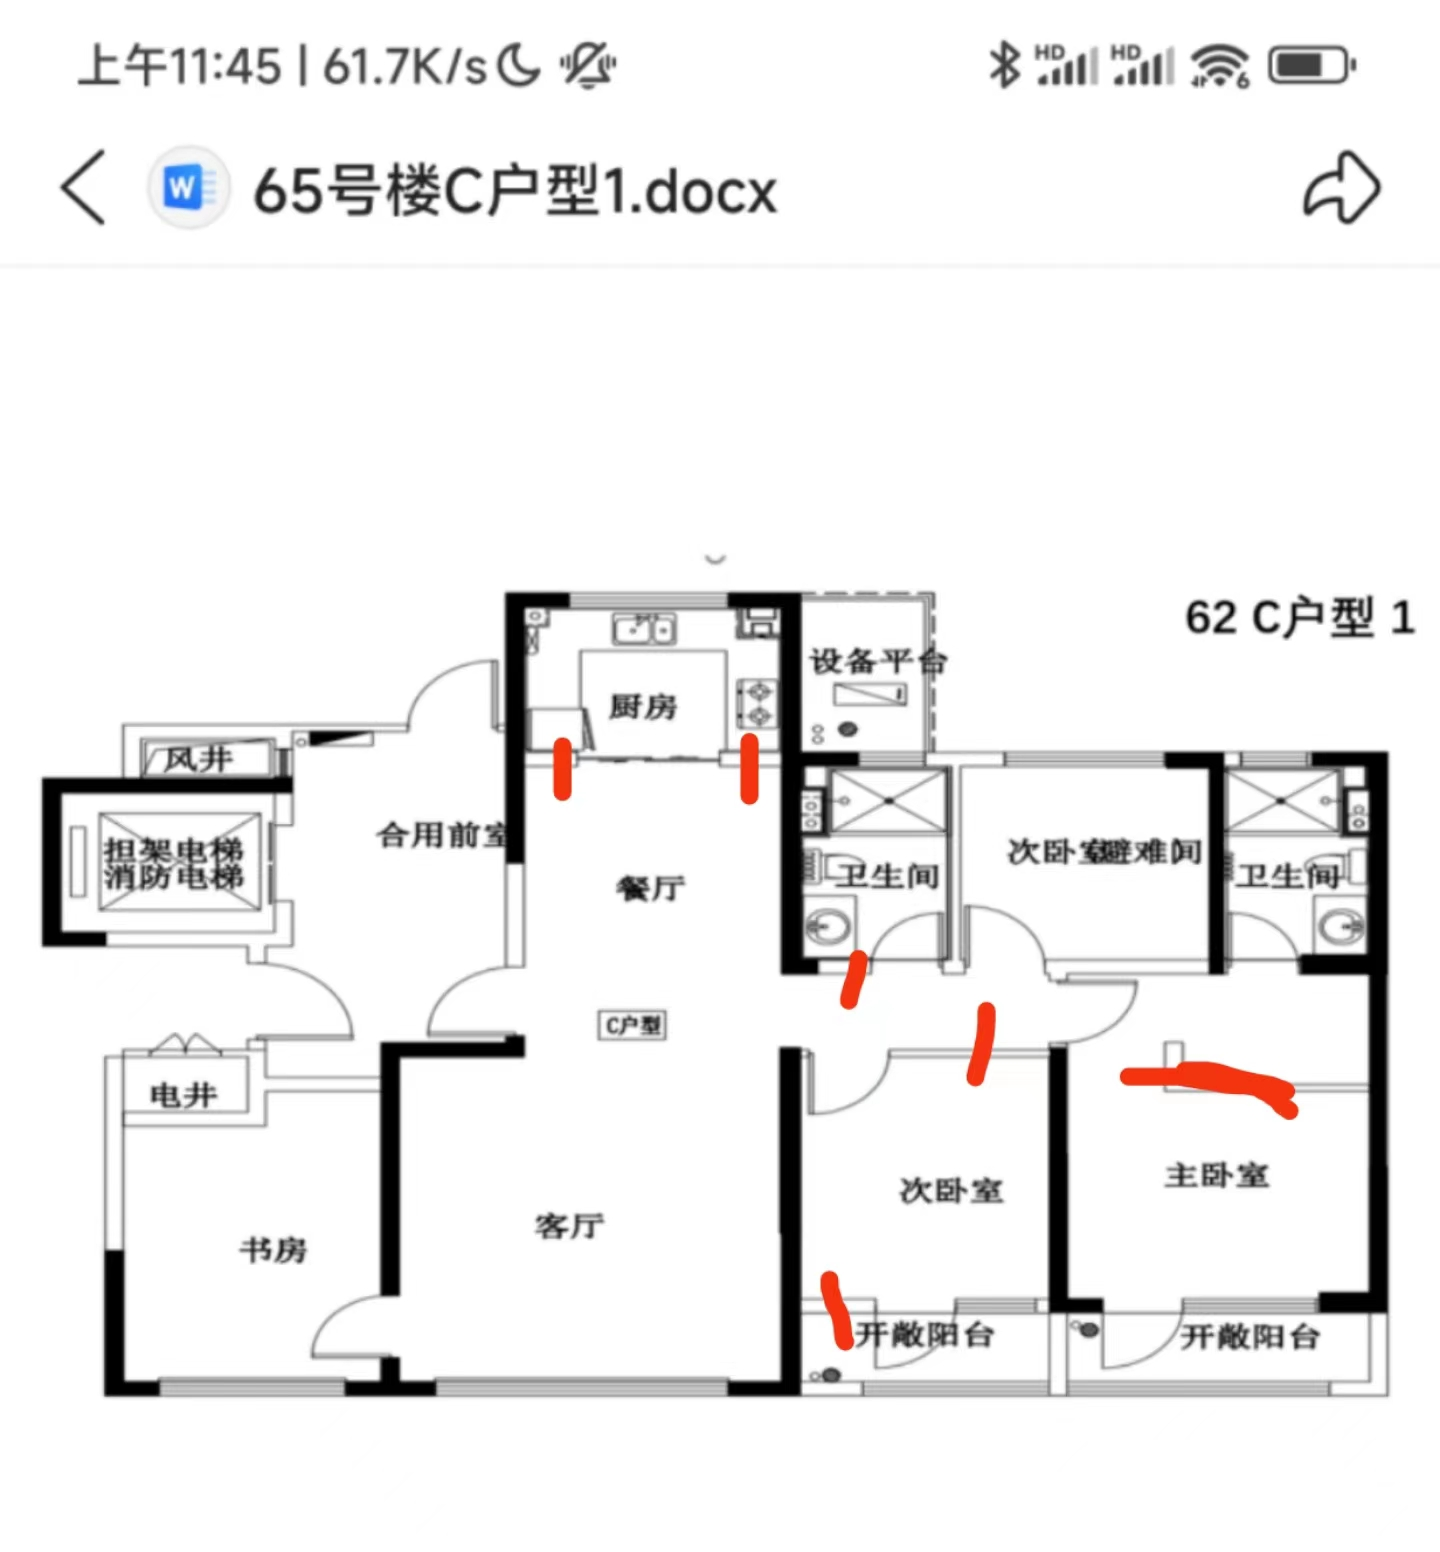
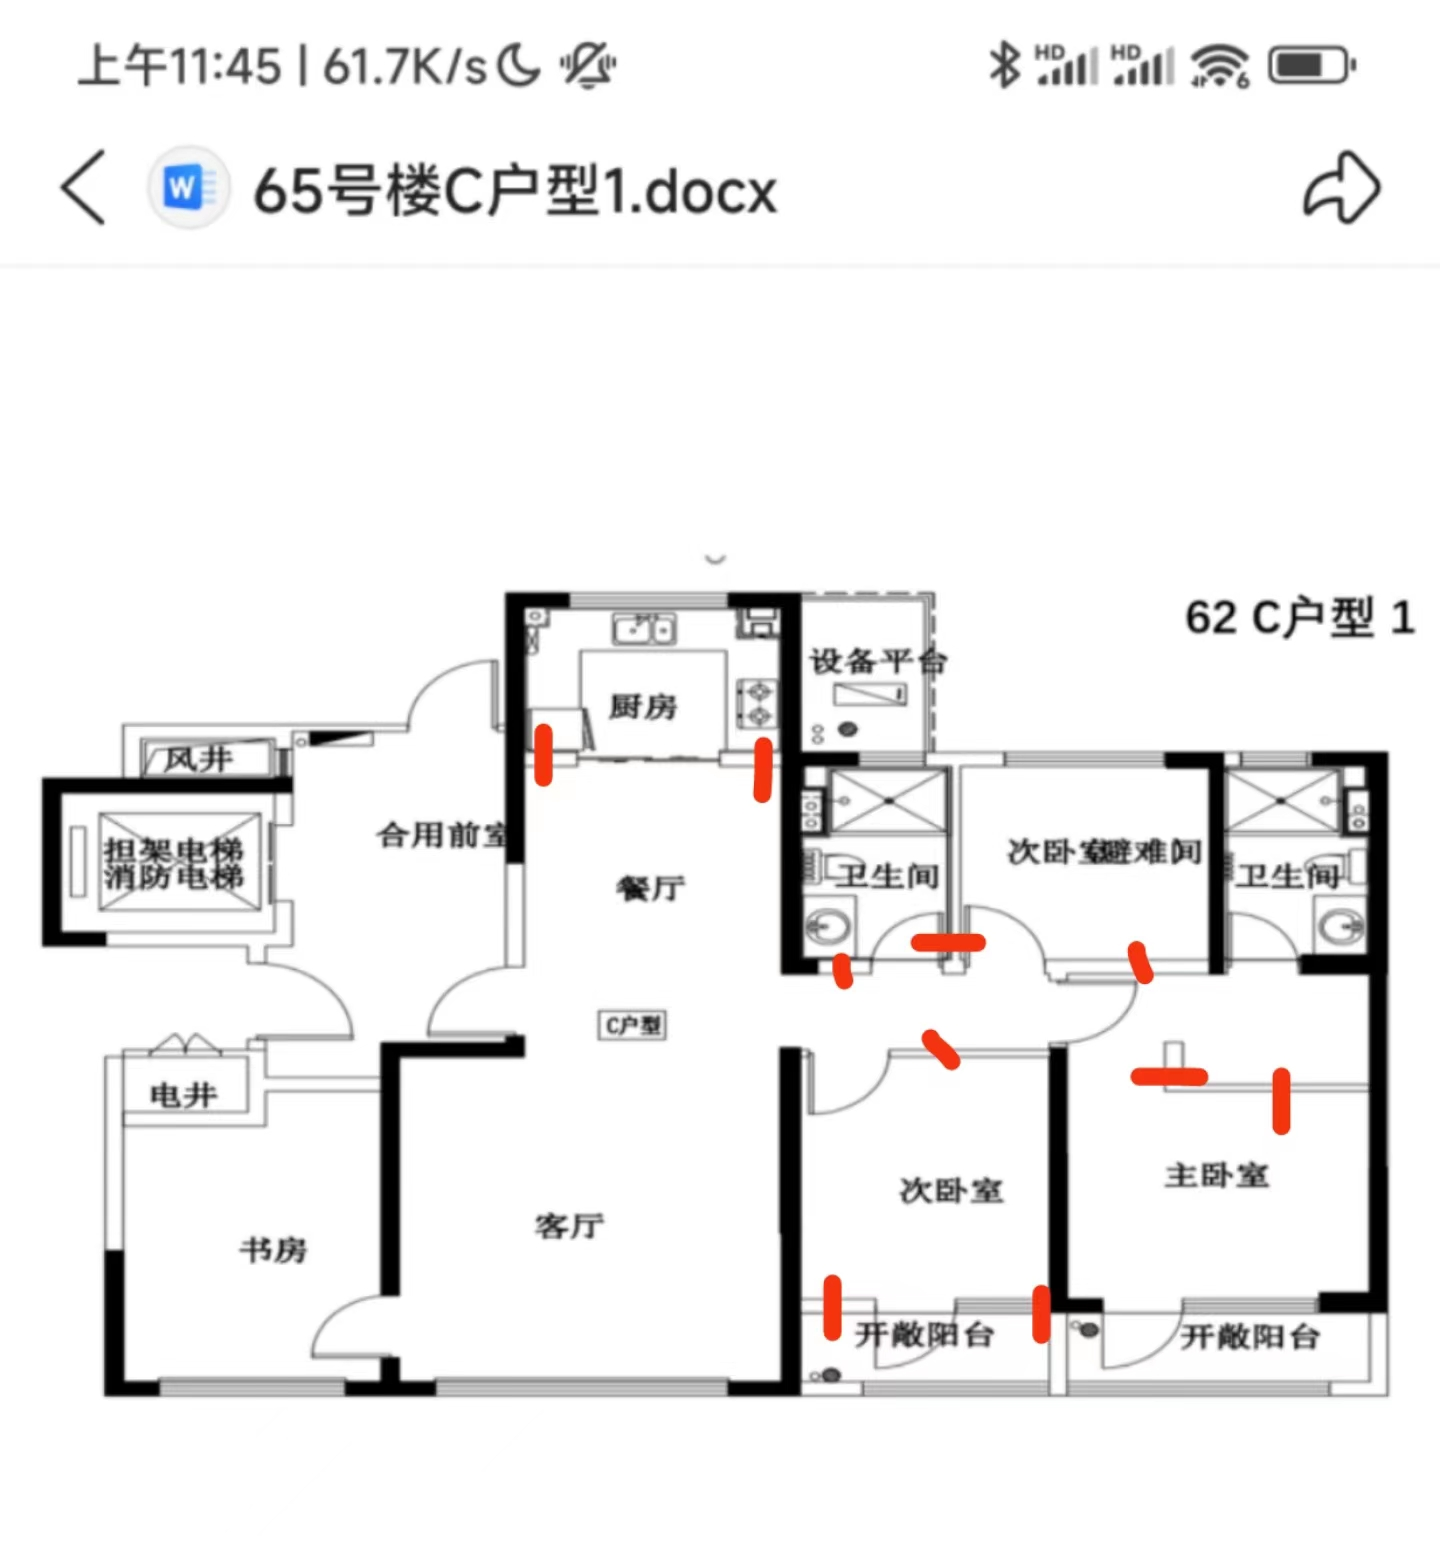
add

diff --git a/wall.md b/wall.md
@@ -12,9 +12,11 @@
 
 > 回收阳台门➕栏杆1100砸墙20个平方1100，师傅砸完墙给你装袋打包运到物业指定地点，你给物业600他们运出去你就不用管了
 
-该网友砸的墙比较多，如下图所示：
+该网友砸的墙比较多，下图列出了户型 1 所有可以砸得墙体：
 
 ![](./images/chaiqiang1.jpg)
+
+户型 2 得情况基本类似，目前的情况是说次卧里较小的墩子不能砸。
 
 砸墙 20 平就是上述墙面。物业 30 块钱一平方的清运费，所以上述费用为 600 。如果砸墙较少，砸墙和物业清理费还可以更少。
 
